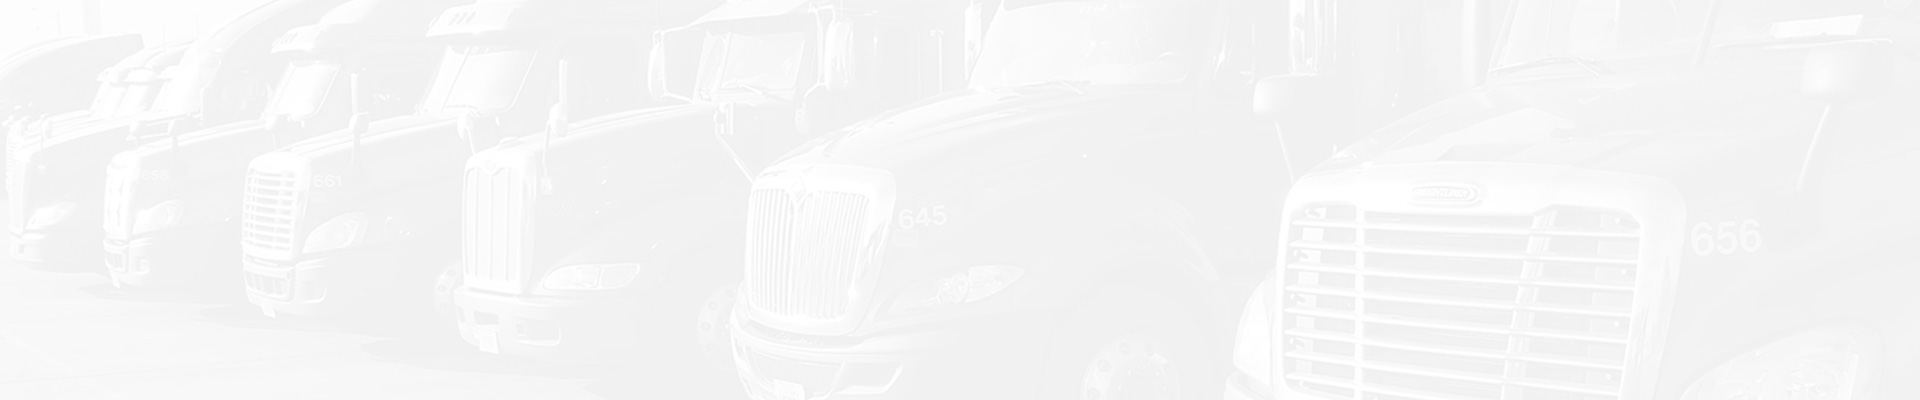
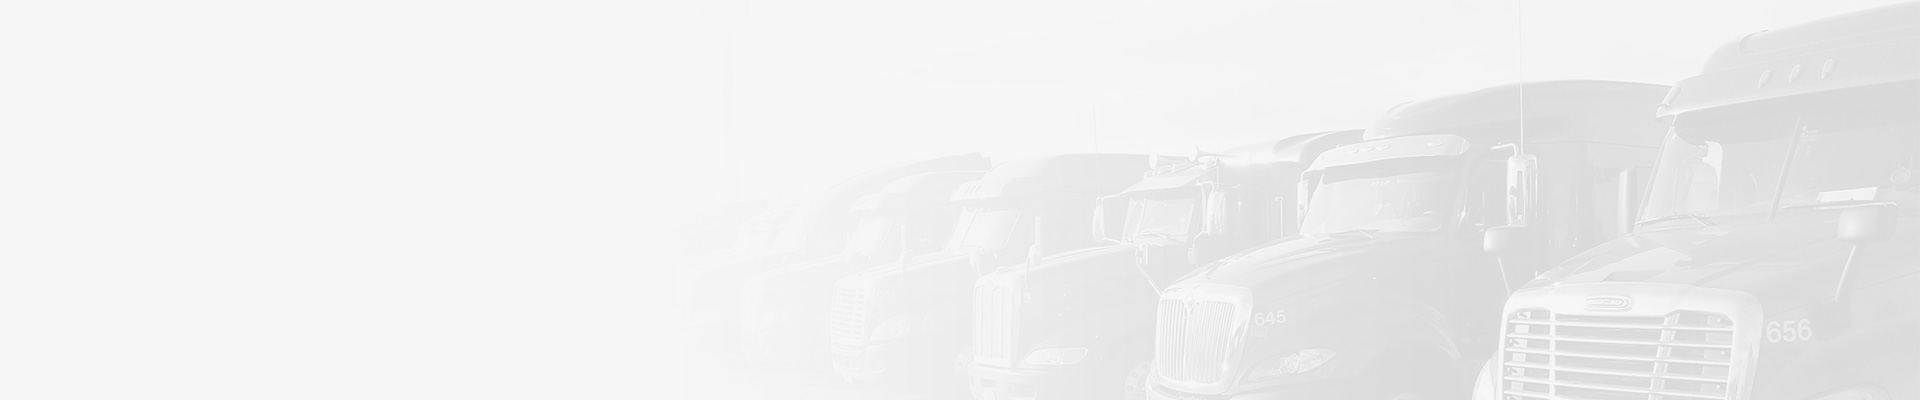
copy change on home page

diff --git a/about-us.html b/about-us.html
@@ -53,7 +53,7 @@
                     <span></span><strong>Apply Now!</strong>
                 </a>
                 <div class="phone_header">
-                    <span>Recruiting &nbsp; <strong>1.888.555.5555</strong></span>
+                    <span>Recruiting &nbsp; <strong>866-555-5555</strong></span>
                 </div>
                 <div class="top-border"></div>
             </div>
@@ -67,7 +67,7 @@
                 </div>  
             </div>        
         </div>
-        <div class="page-content">
+        <div class="page-content pad-bottom">
             <div class="container">
                 <div class="col-1-1">
                     
@@ -76,6 +76,9 @@
                     We offer you strength and stability that few transportation companies can rival.
                     We’re proud to be part of Chief Industries, Inc., a family-owned group of companies whose diverse products and services are used in agriculture, commercial construction, structural steel, factory-built housing, and ethanol production businesses, as well as in the transportation industry. Founded by Virgil Eihusen, our parent company has served the needs of U. S. businesses for over 60 years, with a skilled workforce of approximately 1,300, and is still run by his grandson even today.
                     </p>
+                    <div class="inset-img">
+                        <img src="img/about-inset2.jpg">   
+                    </div>      
                 </div>
             </div>
             <div class="container">
@@ -84,9 +87,7 @@
                          <p>
                              We started in 1968 as a private transportation fleet of Chief Industries. By 1986 we had grown and gotten our own contract carrier authority. Today, we supply transportation solutions to 48 contiguous states, hauling flatbed loads of steel and building material, with some step and van shipments. 
                          </p>
-                         <div class="inset-img">
-                            <img src="img/about-inset.jpg">   
-                         </div>                  
+                                     
                     </div>
                     <div class="col-1-2">
                         <p>

diff --git a/css/main.css b/css/main.css
@@ -85,12 +85,13 @@ html, body {
   font-family: "Lato", sans-serif;
   font-weight: 400;
   -webkit-font-smoothing: antialiased;
-  background: #bbb;
+  background: #ccc;
   color: #333;
 }
 
 #main {
   width: 100%;
+  max-width: 1500px;
   padding-top: 150px;
   margin: 0 auto;
   height: 100%;
@@ -409,7 +410,7 @@ header {
   -webkit-backface-visibility: hidden;
 }
 header .container {
-  max-width: 100%;
+  max-width: 1500px;
   height: 160px;
 }
 header .header-wrap {
@@ -688,9 +689,12 @@ h2, h3 {
   -webkit-font-smoothing: antialiased;
 }
 
+.pad-bottom {
+  padding-bottom: 120px;
+}
+
 .page-content {
   background: white;
-  padding-bottom: 120px;
 }
 .page-content .page-heading {
   margin-top: 80px;
@@ -723,6 +727,9 @@ h2, h3 {
 .page-content .inset-img {
   margin-top: 50px;
 }
+.page-content .inset-img img {
+  width: 100%;
+}
 
 .call-us {
   display: block;
@@ -740,12 +747,14 @@ h2, h3 {
   font-size: 25px;
   line-height: 30px;
   color: #d42531;
+  max-width: 400px;
 }
 
 .section-heading {
   font-size: 25px;
   line-height: 30px;
   color: #d42531;
+  max-width: 400px;
 }
 
 .section-break {
@@ -1162,8 +1171,8 @@ h2, h3 {
   background-size: cover;
 }
 .customer-hero h2 {
-  font-size: 30px;
-  line-height: 35px;
+  font-size: 40px;
+  line-height: 50px;
   color: #222;
 }
 .customer-hero h2 strong {

diff --git a/sass/_globals.scss b/sass/_globals.scss
@@ -76,12 +76,12 @@ html,body{
 	font-weight:400;
 	//letter-spacing:0.75px;
 	-webkit-font-smoothing: antialiased;
-	background:#bbb;
+	background:#ccc;
 	color:#333;
 }
 #main{
 	width:100%;
-	//max-width:1500px;
+	max-width:1500px;
 	padding-top:150px;
 	margin:0 auto;
 	height:100%;
@@ -251,7 +251,7 @@ header{
 	-webkit-transform: translateZ(0);
     -webkit-backface-visibility: hidden;
 	.container{
-		max-width:100%;
+		max-width:1500px;
 		height:160px;
 	}
 	.header-wrap{
@@ -500,11 +500,11 @@ h2,h3{
 
 
 .pad-bottom{
+	padding-bottom:120px;
 	
 }
 .page-content{
 	background:white;
-	padding-bottom:120px;
 	.page-heading{
 		margin-top:80px;
 	}
@@ -535,6 +535,9 @@ h2,h3{
 	}
 	.inset-img{
 		margin-top:50px;
+		img{
+			width:100%;
+		}
 	}
 }
 .call-us{
@@ -552,11 +555,13 @@ h2,h3{
 	font-size:25px;
 	line-height:30px;
 	color:$red;
+	max-width:400px;
 }
 .section-heading{
 	font-size:25px;
 	line-height:30px;
 	color:$red;
+	max-width:400px;
 }
 .section-break{
 	width:100%;
@@ -921,8 +926,8 @@ h2,h3{
 	background:$primary url(../img/customer-call.jpg) no-repeat center;
 	background-size:cover;
 	h2{
-		font-size:30px;
-		line-height:35px;
+		font-size:40px;
+		line-height:50px;
 		color:$primary;
 		strong{
 			color:$red;

diff --git a/service-technology.html b/service-technology.html
@@ -53,7 +53,7 @@
                     <span></span><strong>Apply Now!</strong>
                 </a>
                 <div class="phone_header">
-                    <span>Recruiting &nbsp; <strong>1.888.555.5555</strong></span>
+                    <span>Recruiting &nbsp; <strong>866-555-5555</strong></span>
                 </div>
                 <div class="top-border"></div>
             </div>
@@ -123,6 +123,14 @@
 						<li>McLeod Software &mdash; gives you visibility into deliveries</li>
 						<li>QualComm Satellite Communications Systems &mdash; for two-way mobile communication and vehicle tracking to within 1000 feet</li>
 					</ul>
+                </div>
+            </div>
+            <div class="customer-hero">   
+                <div> 
+                    <h2>Partner with the Chief.</h2>
+                    <a href="contact.html" class="btn_primary clearfix">
+                        <span></span><strong>Contact Us Today!</strong><img src="img/arrow-right.png">
+                    </a>
                 </div>
             </div>
            

diff --git a/contact.html b/contact.html
@@ -53,7 +53,7 @@
     	    	    <span></span><strong>Apply Now!</strong>
     	    	</a>
     	    	<div class="phone_header">
-    	    		<span>Recruiting &nbsp; <strong>1.888.555.5555</strong></span>
+    	    		<span>Recruiting &nbsp; <strong>866-555-5555</strong></span>
     	    	</div>
     	    	<div class="top-border"></div>
 		    </div>
@@ -66,10 +66,10 @@
 
 	    
         <div class="contact-phone">
-			<ul>
-			    <li><strong>Customers:</strong> 866-483-5318</li>
+			<ul> 
+			    <li><strong>Drivers:</strong> 866-555-5555</li>
 			    <li class="divider">|</li>
-			    <li><strong>Recruiting:</strong> 866-555-5555</li>
+			    <li><strong>Customers:</strong> 866-483-5318</li>
 			</ul>
 		</div>	
 	    

diff --git a/privacy-policy.html b/privacy-policy.html
@@ -53,7 +53,7 @@
                     <span></span><strong>Apply Now!</strong>
                 </a>
                 <div class="phone_header">
-                    <span>Recruiting &nbsp; <strong>1.888.555.5555</strong></span>
+                    <span>Recruiting &nbsp; <strong>866-555-5555</strong></span>
                 </div>
                 <div class="top-border"></div>
             </div>

diff --git a/apply-now.html b/apply-now.html
@@ -53,7 +53,7 @@
     	    	    <span></span><strong>Apply Now!</strong>
     	    	</a>
     	    	<div class="phone_header">
-    	    		<span>Recruiting &nbsp; <strong>1.888.555.5555</strong></span>
+    	    		<span>Recruiting &nbsp; <strong>866-555-5555</strong></span>
     	    	</div>
     	    	<div class="top-border"></div>
 		    </div>

diff --git a/drive-for-chief.html b/drive-for-chief.html
@@ -53,7 +53,7 @@
     	    	    <span></span><strong>Apply Now!</strong>
     	    	</a>
     	    	<div class="phone_header">
-    	    		<span>Recruiting &nbsp; <strong>1.888.555.5555</strong></span>
+    	    		<span>Recruiting &nbsp; <strong>866-555-5555</strong></span>
     	    	</div>
     	    	<div class="top-border"></div>
 		    </div>

diff --git a/hiring-area.html b/hiring-area.html
@@ -53,7 +53,7 @@
     	    	    <span></span><strong>Apply Now!</strong>
     	    	</a>
     	    	<div class="phone_header">
-    	    		<span>Recruiting &nbsp; <strong>1.888.555.5555</strong></span>
+    	    		<span>Recruiting &nbsp; <strong>866-555-5555</strong></span>
     	    	</div>
     	    	<div class="top-border"></div>
 		    </div>

diff --git a/index.html b/index.html
@@ -53,7 +53,7 @@
     	    	    <span></span><strong>Apply Now!</strong>
     	    	</a>
     	    	<div class="phone_header">
-    	    		<span>Recruiting &nbsp; <strong>1.888.555.5555</strong></span>
+    	    		<span>Recruiting &nbsp; <strong>866-555-5555</strong></span>
     	    	</div>
     	    	<div class="top-border"></div>
 		    </div>
